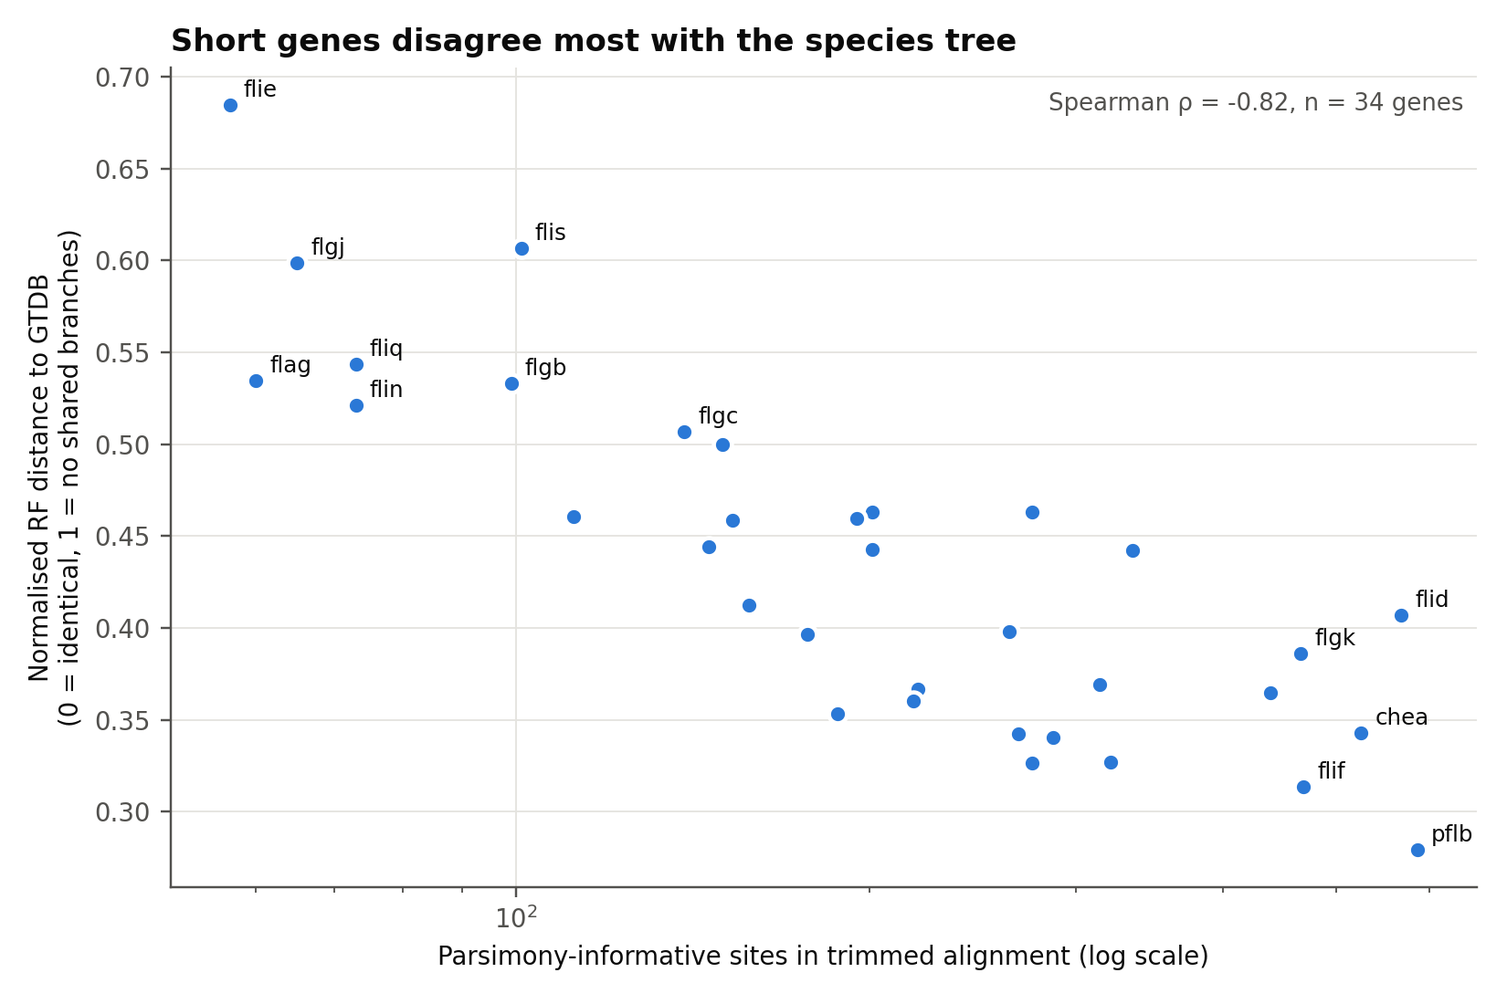
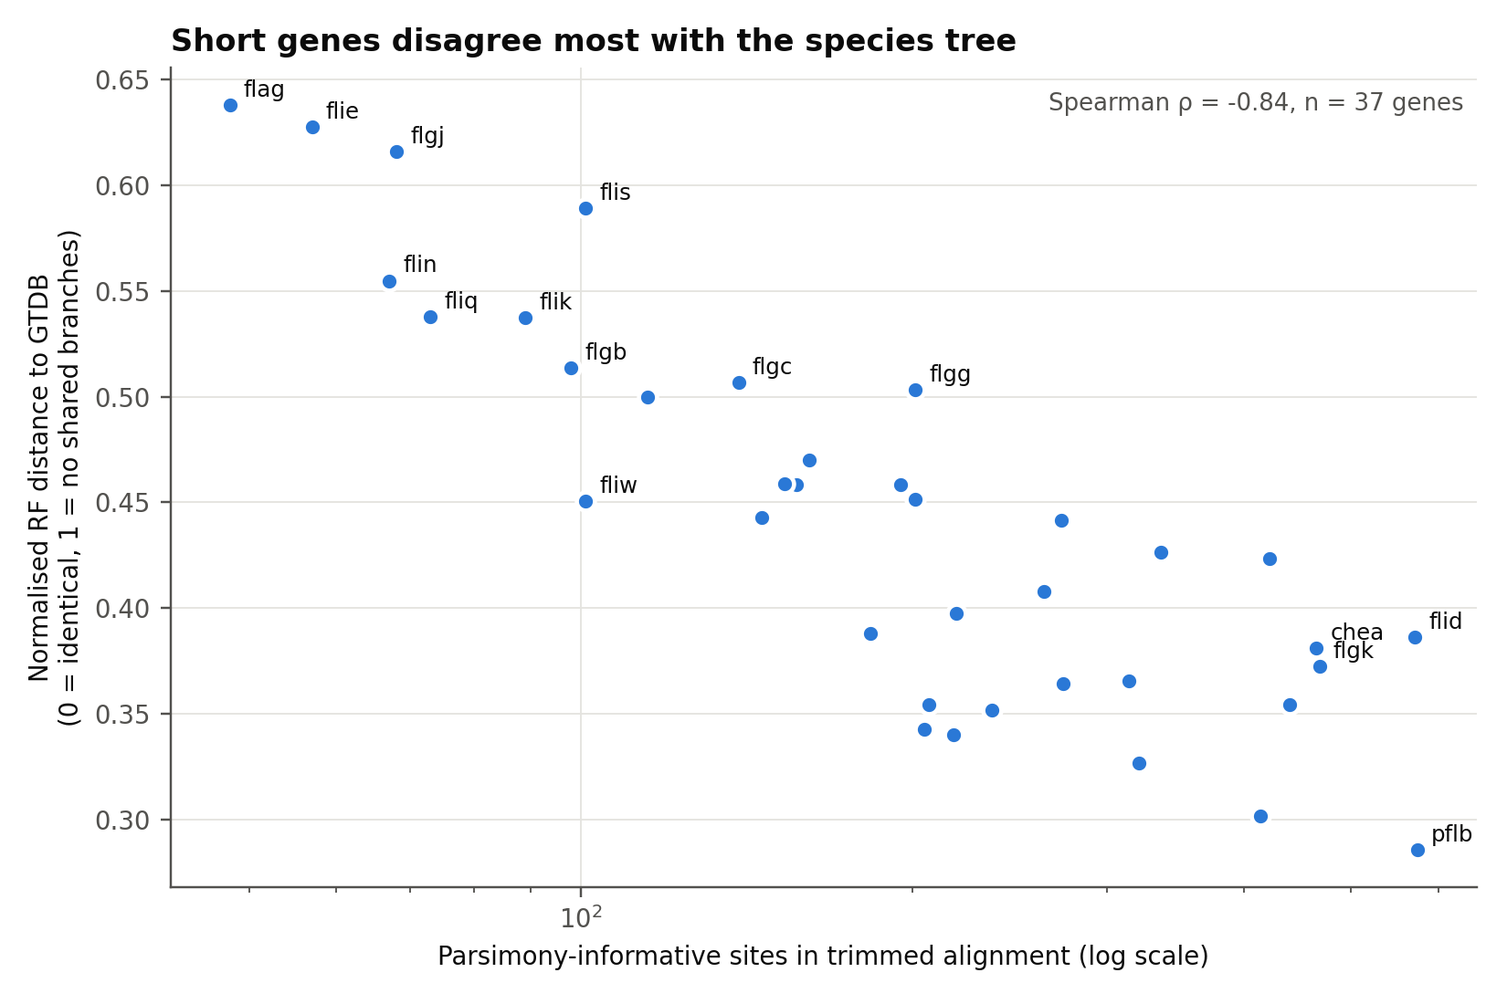
Run-2 results and AU tests: all 8 candidates reject GTDB on the concatenated alignment
RESULTS.md rewritten for run 2 (37 genes x 149 genomes) with the explicit
shortlist rule (4 primary, 4 exploratory) and AU results; figures
regenerated. summarise_au.py reports p < 1e-4 when the GTDB tree wins no
RELL replicate (IQ-TREE's AU value is an unstable extrapolation there).

Claude-Session: https://claude.ai/code/session_01NnNHdsAmpXXpidbD6nPzg2

diff --git a/scripts/11_flagellar_trees/summarise_au.py b/scripts/11_flagellar_trees/summarise_au.py
@@ -9,7 +9,8 @@ allowed) with tree 2 = best tree forced to keep the candidate's GTDB branch(es).
   p_AU_gtdb < 0.05  -> the alignment significantly REJECTS the GTDB arrangement
   p_AU_free < 0.05  -> the alignment significantly rejects its own unconstrained
                        tree, i.e. prefers GTDB (rare; means the free search was poor)
-Per-gene p-values are Benjamini-Hochberg corrected within each candidate;
+p_AU_gtdb is reported as "<1e-04" when the GTDB tree never wins a RELL
+replicate (see p_gtdb). Per-gene p-values are Benjamini-Hochberg corrected within each candidate;
 the concatenated-alignment p-values are Holm corrected across candidates.
 con_rep_spread = logL range across the 3 constrained-search replicates: a
 large spread means the constrained search is unstable, so treat that p-value
@@ -26,6 +27,18 @@ import os
 
 A = "gene_order/flagellar_trees/au"
 ALPHA = 0.05
+N_RELL = 10000  # -zb in au_one.sh
+
+
+def p_gtdb(t):
+    """p-value for the GTDB-constrained tree (tree 2). When it wins in none of
+    the RELL replicates (bp-RELL = 0) the AU p-value is an extrapolation of the
+    multiscale-bootstrap fit and is numerically unstable (identical tree pairs
+    gave 0.037 and 8e-7), so it is reported as < 1/N_RELL and 1/N_RELL is used
+    as a conservative value for the multiple-testing corrections."""
+    if t[2].get("bp-RELL", 1) == 0:
+        return 1 / N_RELL, f"<{1 / N_RELL:g}"
+    return t[2]["p-AU"], f"{t[2]['p-AU']:.3g}"
 
 
 def parse_user_trees(path):
@@ -82,7 +95,7 @@ def replicate_spread(cand, aln):
 
 def main():
     cands = open(f"{A}/candidates.txt").read().split()
-    rows, summary = [], []
+    rows, summary, results_concat = [], [], {}
     for cand in cands:
         group = [l.split("\t")[1] for l in open(f"{A}/{cand}/group.txt").read().splitlines()]
         genes = [l.split("\t")[0] for l in open(f"{A}/{cand}/genes.tsv").read().splitlines() if l]
@@ -93,24 +106,28 @@ def main():
             if t and 1 in t and 2 in t:
                 results[aln] = t
         gene_alns = [g for g in genes if g in results]
-        q = dict(zip(gene_alns, bh([results[g][2]["p-AU"] for g in gene_alns]))) if gene_alns else {}
+        q = dict(zip(gene_alns, bh([p_gtdb(results[g])[0] for g in gene_alns]))) if gene_alns else {}
 
         for aln, t in results.items():
             rows.append([cand, aln, t[1]["logL"], t[2]["logL"], round(t[1]["logL"] - t[2]["logL"], 3),
-                         t[2]["p-AU"], q.get(aln, ""), t[1]["p-AU"], replicate_spread(cand, aln)])
+                         p_gtdb(t)[1], t[2]["p-AU"], t[2].get("bp-RELL", ""), q.get(aln, ""), t[1]["p-AU"],
+                         replicate_spread(cand, aln)])
 
         c = results.get("concat")
-        n_rej = sum(results[g][2]["p-AU"] < ALPHA for g in gene_alns)
+        if c:
+            results_concat[cand] = c
+        n_rej = sum(p_gtdb(results[g])[0] < ALPHA for g in gene_alns)
         n_rej_bh = sum(q[g] < ALPHA for g in gene_alns)
         n_pref_gtdb = sum(results[g][1]["p-AU"] < ALPHA for g in gene_alns)
         summary.append([cand, "; ".join(group),
-                        c[2]["p-AU"] if c else "NA", None,
+                        p_gtdb(c)[1] if c else "NA", None,
                         round(c[1]["logL"] - c[2]["logL"], 3) if c else "NA",
                         f"{len(gene_alns)}/{len(genes)}", n_rej, n_rej_bh, n_pref_gtdb,
                         replicate_spread(cand, "concat")])
 
-    have = [r for r in summary if r[2] != "NA"]
-    for r, adj in zip(have, holm([r[2] for r in have])):
+    pval = {r[0]: p_gtdb(results_concat[r[0]])[0] for r in summary if r[0] in results_concat}
+    have = [r for r in summary if r[0] in pval]
+    for r, adj in zip(have, holm([pval[r[0]] for r in have])):
         r[3] = round(adj, 5)
     for r in summary:
         if r[3] is None:
@@ -118,7 +135,7 @@ def main():
 
     with open(f"{A}/au_results.tsv", "w") as f:
         f.write("candidate\talignment\tlogL_free\tlogL_gtdb_constrained\tdelta_logL\t"
-                "p_AU_gtdb\tq_BH_gtdb\tp_AU_free\tcon_rep_spread\n")
+                "p_gtdb\tp_AU_raw\tbp_RELL_gtdb\tq_BH_gtdb\tp_AU_free\tcon_rep_spread\n")
         for r in rows:
             f.write("\t".join(str(x) for x in r) + "\n")
     with open(f"{A}/au_summary.tsv", "w") as f:
@@ -130,7 +147,7 @@ def main():
     print(f"{'candidate':30s} {'concat p-AU':>11s} {'Holm':>8s} {'ΔlogL':>8s} {'genes':>6s} "
           f"{'reject':>6s} {'BH':>4s} {'rep spread':>10s}")
     for r in summary:
-        p = f"{r[2]:.4f}" if r[2] != "NA" else "NA"
+        p = r[2]
         h = f"{r[3]:.4f}" if r[3] != "NA" else "NA"
         print(f"{r[0]:30s} {p:>11s} {h:>8s} {str(r[4]):>8s} {r[5]:>6s} {r[6]:>6d} {r[7]:>4d} {str(r[9]):>10s}")
     print(f"\nHolm-corrected concat p-AU < {ALPHA}: the flagellar alignment significantly rejects "

diff --git a/gene_order/flagellar_trees/RESULTS.md b/gene_order/flagellar_trees/RESULTS.md
@@ -1,147 +1,182 @@
-# Flagellar trees vs GTDB: results (Katana run 1, 26 Sep 2026)
+# Flagellar trees vs GTDB: results (Katana run 2, 27 Sep 2026)
 
-> **Superseded — rerun pending.** Run 1 used 34 genes / 153 genomes. The gene
-> inputs were then corrected (27 Sep): when a genome has several copies named
-> as the same gene, the copy in the gene's main OrthoFinder orthogroup is used
-> (recovering 192 calls that were previously excluded); a genome's only copy
-> is dropped if it belongs to a paralog orthogroup that elsewhere sits
-> alongside the main one (47 calls, in flgE, fliK, fliW), and kept if its
-> orthogroup is lineage-specific (the 8 Hippea/Desulfurella/Nitrosophilus/
-> Nitratiruptor FlgG: a divergent but genuine FlgG, 47–62 % identical to FlgG
-> elsewhere). Result: 37 genes (+flgE, +fliK, +fliW) × 149 genomes. Numbers
-> below are from run 1 and will be replaced after the rerun.
+37 flagellar/chemotaxis genes × 149 Campylobacterota genomes. Per-gene IQ-TREE
+trees (MAFFT L-INS-i, trimAl -automated1, ModelFinder, 1000 UFBoot), a
+partitioned concatenated tree (9,927 aa sites, 10.8 % missing data), gene and
+site concordance factors (gCF, sCFL) on both the flagellar and GTDB trees, and
+targeted AU tests. Figures in `figures/` (`plot_results.py`).
 
-34 flagellar/chemotaxis genes × 153 Campylobacterota genomes (selection rule in
-`gene_selection.json`). Per-gene IQ-TREE trees (ModelFinder + 1000 UFBoot), a
-partitioned concatenated tree (9,427 aa sites, 10.8 % missing data), gene and site concordance
-factors on both the flagellar and GTDB trees. Figures in `figures/`, regenerate
-with `python scripts/11_flagellar_trees/plot_results.py`.
+Run 1 (34 genes / 153 genomes, 26 Sep) is superseded; its headline numbers are
+within 1–2 % of run 2's (table in §1).
+
+## 0. Gene set and verification
+
+Selection (`prepare_gene_sets.py`, `gene_selection.json`): gene in ≥ 100 of 164
+genomes, ≤ 10 % of those with ambiguous extra copies; genomes kept if they carry
+≥ 60 % of the selected genes (≥ 22 of 37).
+
+Copies are resolved with OrthoFinder orthogroups: of several same-named copies,
+the one in the gene's main orthogroup is used (192 calls recovered); a genome's
+only copy is dropped if it sits in a paralog orthogroup that elsewhere occurs
+alongside the main one (47 calls, in flgE, fliK, fliW) and kept if its
+orthogroup is lineage-specific (8 Hippea/Desulfurella/Nitrosophilus/
+Nitratiruptor FlgG: own orthogroup, but 47–62 % identical to FlgG across the
+phylum vs ≤ 32 % to the other rod proteins in the same genome).
+
+All 4,964 tree-input proteins were checked against five reference proteomes
+spanning the phylum (`verify/`, DIAMOND very-sensitive, ≥ 50 % query cover):
+94.3 % agree by majority; the 6 flagged were reviewed by sequence and are
+correct calls (`verify/REVIEW.md`). flgJ/flgR, which the references don't name,
+are covered by the original OrthoFinder + eggNOG confirmation.
+
+Not included (22 genes, all < 100 genomes; flaA/flaB/maf_2356 also ambiguous
+multi-copy). Some low counts are detection gaps, not absence: flgF and flhG
+calls were dropped by the confirmed-only eggNOG rule, cheY/fliO/fliT are
+usually unnamed in NCBI, and **flagellin detection is incomplete** — 58 genomes
+with an NCBI "flagellin" protein have no flaA/flaB/flaC call (their flagellins,
+mostly Arcobacteraceae and Sulfurimonas, fall in orthogroups other than the
+C. jejuni-seeded OG0000010). Presence/absence claims for these genes should
+read "not detected".
 
 ## 1. Flagellar genes carry a strong vertical (species-tree) signal
 
-| Measure | Value |
-|---|---|
-| GTDB branches recovered by the flagellar tree | **112 / 150 (74.7 %)** |
-| …of which flagellar UFBoot ≥ 95 | 105 |
-| Random-shuffle null (1000 tip relabellings) | mean 0.22 shared, max 2, **p = 0.001** |
-| Robinson–Foulds | 76 (normalised 0.25) |
-| Mantel, patristic distances | **r = 0.59, p = 0.0001** (9999 perms, 11,628 pairs) |
-| gCF on flagellar tree | mean 63 %, no branch below 10 % |
-| gCF on GTDB tree | mean 56 %, 83/150 branches ≥ 50 %, 18 below 10 %, 7 at 0 % |
+| Measure | Run 2 | (run 1) |
+|---|---|---|
+| GTDB branches recovered by the flagellar tree | **108 / 146 (74.0 %)** | 112/150 (74.7 %) |
+| …of which flagellar UFBoot ≥ 95 | 101 | 105 |
+| Random-shuffle null (1000 tip relabellings) | mean 0.19, max 2, **p = 0.001** | 0.22 |
+| Robinson–Foulds | 76 (normalised 0.26) | 0.25 |
+| Mantel, patristic distances | **r = 0.57, p = 0.0001** | 0.59 |
+| gCF on flagellar tree | mean 62 %, none below 10 % | 63 % |
+| gCF on GTDB tree | mean 55 %, 81/146 ≥ 50 %, 15 below 10 %, 6 at 0 % | 56 % |
 
 The flagellar system was mostly inherited vertically, as one unit: the genes
-agree with each other (gCF 63 %) and three quarters of species-tree branches
-are recovered — against ~0 expected by chance. Compare the synteny-UPGMA tree
-from Thesis B, which recovered 23.8 %.
+agree with each other and recover three quarters of species-tree branches,
+against ~0 expected by chance (the synteny-UPGMA tree from Thesis B recovered
+23.8 %). The shuffle null is a weak baseline (random trees share almost
+nothing), so RF and concordance carry the argument; the Mantel test is
+supporting only (Mantel tests on tree-derived distances are criticised: Harmon
+& Glor 2010; Guillot & Rousset 2013).
 
 ## 2. Most per-gene disagreement is weak signal, not transfer
 
-Normalised RF to GTDB falls with alignment length: **Spearman ρ = −0.82**
-across the 34 genes (`fig2_signal_vs_length.png`). The most discordant genes
-are the shortest after trimming — fliE (67 sites), flgJ (74), flaG (63),
-fliQ (86), fliN (87), fliS (110). The long genes (pflB, cheA, fliF, flhA,
-flgK) are the closest to GTDB. A gene tree disagreeing with GTDB on its own is
-therefore not evidence of HGT here; it is expected for 60–110-site genes.
+Normalised RF to GTDB falls with trimmed alignment length: **Spearman
+ρ = −0.84** across 37 genes (`fig2_signal_vs_length.png`). Most discordant are
+the shortest — flaG (51 sites, 0.64), fliE (67), flgJ (78), fliS (110), fliN
+(72), fliQ (86); least discordant are long — pflB (589 sites, 0.29), fliF, flgR,
+flgS, fliR, flhB. A single gene disagreeing with GTDB is expected at this
+length and is not evidence of HGT.
 
-## 3. The ten GTDB branches no flagellar gene recovers are mostly unresolved, not contradicted
+## 3. GTDB branches no flagellar gene recovers are unresolved, not contradicted
 
-`fig3_concordance_gtdb.png`. For every branch with gCF ≤ 5 %:
+`fig3_concordance_gtdb.png`. For the 9 branches with gCF ≤ 5 %, the gene-tree
+disagreement is mostly **gDFP** (44–100 %: gene trees messy around the clade)
+rather than one consistent alternative (largest one-sided gDF 33 %), and the
+**sCF is 39–86 %, above both alternatives for all 9** — at site level the
+alignment still leans towards GTDB. They sit on the deep backbone
+(Arcobacteraceae / Nautiliales / Desulfurellia), the Nitratiruptoraceae, and
+internal Sulfurimonas branches.
 
-- the gene-tree disagreement is almost all **gDFP** (77–100 %) — gene trees
-  that are simply messy around a large clade — rather than one consistent
-  alternative (gDF1/gDF2 mostly < 20 %). The exception is the *Poseidonibacter*
-  branch, where 75 % of gene trees agree on one alternative (shortlist #1, §4);
-- the **sCF is 37–76 %, above the ⅓ no-signal line for all ten**, and above
-  both alternatives (sDF1/sDF2) for all ten (narrowly for the 12-genome
-  Sulfurimonas branch: 37 % vs 36 %). At site level the flagellar
-  alignment still leans towards the GTDB branch.
-
-Where they sit: the deep backbone (the 56-, 41- and 29-genome clades around
-Arcobacteraceae/Sulfurimonas/Nautiliales), the attachment of the GTDB root
-(Desulfurellia: *Hippea*, *Desulfurella*), and internal Sulfurimonas branches.
-
-**The deep thermophile grouping looks like an artefact.** In the flagellar
-trees *Hippea*/*Desulfurella* (the GTDB root) attach next to *Nitrosophilus*/
-*Nitratiruptor* instead of Nautiliales, and *Hydrogenimonas* separates from
-*Nitrosophilus* (`fig1_tanglegram.png`). These are all deep-sea-vent
-thermophiles, and they are exactly the genomes failing IQ-TREE's amino-acid
-composition test most often (*Nitrosophilus* ×3 and *Nitratiruptor* fail in
-7 genes each; *Hippea*, *Lebetimonas*, *Desulfurella* 4–5; 167 failures of
-4703 sequence-gene tests overall). Thermophile proteome composition bias plus a
-long outgroup branch is a textbook source of spurious grouping. Treat as
-artefact unless it survives recoding / site-heterogeneous models (below).
+The deep thermophile grouping (*Hippea*/*Desulfurella*, the GTDB root, attaching
+next to *Nitrosophilus*/*Nitratiruptor* rather than Nautiliales; 6 gene trees)
+looks like a composition/long-branch artefact: these are exactly the genomes
+failing IQ-TREE's amino-acid composition test most often (*Nitrosophilus* ×3,
+*Nitratiruptor* 7 genes each; *Hippea*, *Desulfurella* 6; *Lebetimonas* 5; 171
+of 4,964 sequence-gene tests overall). To test: site-heterogeneous model
+(LG+C20+F+G / PMSF) or Dayhoff-6 recoding.
 
 ## 4. HGT candidates
 
-The screen (`hgt_candidates.tsv`) found 458 strongly supported (UFBoot ≥ 95)
-conflicts in 178 distinct groups; most are single-gene, shallow, or in short
-genes. Two kinds are worth following up.
+### Screen
+`screen_hgt_candidates.py`: 501 strongly supported (UFBoot ≥ 95) conflicts
+with GTDB in 178 distinct groups (`hgt_candidates.tsv`); most single-gene,
+shallow, or in short genes.
 
-### A. Consistent alternative histories — shortlist
+### Shortlist
+Explicit rule, applied to run 2 (it formalises the criteria used informally on
+run 1, so it is a screening rule, not an independent test):
 
-The same grouping in many gene trees *and* the concatenated tree, with the gene
-trees favouring **one** specific alternative (gDF strongly one-sided; noise
-would split roughly evenly). `fig4_recurrent_conflicts.png`.
+1. in ≥ 10 gene trees **and** the concatenated tree;
+2. one-sided: at the contradicted GTDB branch, ≥ 50 % of gene trees favour this
+   alternative and ≥ 3× as many as the other alternative;
+3. the GTDB branch is not unusually short (≥ 25th percentile, 0.0086 subst./site).
 
-| # | Group (flagellar genes put together) | Gene trees | gDF of the favoured alternative | GTDB branch length | Read |
+**Primary** (pass all three): *C. mucosalis* + *C. suis*; *H. saguini* +
+*H. didelphidarum*; *P. lekithochrous* + *A. roscoffensis*;
+*C. pinnipediorum* / *gastrosuis* / *majalis*.
+**Exploratory** (fail one criterion, tested for a stated reason):
+*Hydrogenimonas* (GTDB branch 0.0079, just short; most recurrent, 20 genes),
+*Sulfurimonas* subgroup (not one-sided; deepest within-genus conflict),
+*Nitrosophilus* (7 genes; tests the thermophile question), *S. tamanense*
+(5 genes; deep and one-sided, GTDB splits the genus).
+The rule selects nothing that was not already on the list.
+
+### AU tests
+`prepare_au_tests.py` → `katana/03_au_tests.pbs` → `summarise_au.py`. For each
+candidate, the constraint forces only the GTDB branch(es) the grouping
+contradicts; best of 3 constrained searches (different seeds) vs the
+unconstrained tree; AU with 10,000 RELL replicates, on the concatenated
+alignment and every informative gene. Constrained and free concatenated trees
+differ only at the forced branch(es) (1 split; 2 for the Campylobacter pair;
+4 for Sulfurimonas), and the three constrained replicates agree to < 0.01 logL.
+
+| Candidate | | Concat p (GTDB) | Holm (8) | ΔlogL | Genes rejecting GTDB, p < 0.05 / BH |
 |---|---|---|---|---|---|
-| 1 | *Poseidonibacter lekithochrous* + *Arcobacter roscoffensis* | 13 + concat | 75 % (other alt. 0 %) | 0.0136 (median) | **Top candidate** — GTDB branch is not short, genes very one-sided |
-| 2 | *Hydrogenimonas urashimensis* + *H. cancrithermarum* | 19 + concat | 73 % (3 %) | 0.0079 | Strong, but within-genus |
-| 3 | *Helicobacter saguini* + *H. didelphidarum* | 15 + concat | 61 % (3 %) | 0.0086 | Strong |
-| 4 | *Campylobacter pinnipediorum* + *C. gastrosuis* + *C. majalis* | 7 + concat | 55 % (0 %) | 0.0187 (long) | Worth testing — long GTDB branch |
-| 5 | *Nitrosophilus* spp. (vs *Nitratiruptor*) | 7 + concat | 64 % (9 %) | 0.0131 | Thermophile caveat (§3) |
-| 6 | *Sulfurimonas denitrificans* / *crateris* / *baltica* / *marisnigri* | 9 + concat | gCF 0 on 4 GTDB branches | 0.005 | Deepest recurrent within-genus conflict (GTDB span 14) |
-| — | *Sulfurospirillum diekertiae* + *S. oryzae* | 13 + concat | 58 % | **0.0031** (short) | GTDB itself uncertain here — low priority |
+| *P. lekithochrous* + *A. roscoffensis* | primary | **< 10⁻⁴** | 0.0008 | 262 | 6 / 0 of 25 |
+| *H. saguini* + *H. didelphidarum* | primary | **< 10⁻⁴** | 0.0008 | 181 | 6 / 0 of 36 |
+| *C. mucosalis* + *C. suis* | primary | **< 10⁻⁴** | 0.0008 | 700 | 16 / 11 of 37 |
+| *C. pinnipediorum* / *gastrosuis* / *majalis* | primary | **< 10⁻⁴** | 0.0008 | 700 | 12 / 9 of 36 |
+| *Hydrogenimonas* | exploratory | **< 10⁻⁴** | 0.0008 | 286 | 7 / 3 of 35 |
+| *Sulfurimonas* subgroup | exploratory | **< 10⁻⁴** | 0.0008 | 908 | 24 / 23 of 36 |
+| *S. tamanense* | exploratory | **< 10⁻⁴** | 0.0008 | 148 | 3 / 0 of 35 |
+| *Nitrosophilus* | exploratory | 0.0044 | 0.0044 | 41 | 2 / 0 of 23 |
 
-These are shallow (close relatives), so the realistic interpretations are:
-the flagellar operon moved as a unit between close relatives (HGT or
-homologous recombination), or GTDB's placement of a short branch is wrong.
-Distinguishing the two needs the AU test and a check of GTDB's own marker
-genes at that node.
+"< 10⁻⁴": the GTDB-constrained tree won none of the 10,000 RELL replicates
+(KH and SH p also 0). IQ-TREE's AU value is then an unstable extrapolation
+(identical tree pairs gave 0.037 and 8 × 10⁻⁷), so 10⁻⁴ is reported and used
+for Holm. No gene significantly preferred GTDB over its free tree.
 
-### B. Deeper single-/few-gene placements
+**Reading.** At all eight spots the flagellar genes, taken together,
+significantly reject the GTDB arrangement. Individually few genes do (except
+*Sulfurimonas*: 23/36 after BH, and the *Campylobacter* pair: 9–11): the signal
+is spread across many genes, i.e. the flagellar gene set shares one history
+there that differs from GTDB — consistent with the flagellar system moving
+(or recombining) as a unit between close relatives, or with GTDB being wrong at
+those nodes. The two *Campylobacter* candidates are one conflict (their
+constrained trees are identical).
 
-- ***Sulfurospirillum tamanense***: GTDB places it as sister to *Campylobacter*,
-  apart from the other eight *Sulfurospirillum* (so GTDB's *Sulfurospirillum*
-  is not monophyletic). The flagellar genes put it back with its genus, which
-  is sister to *Campylobacter* (fliA, fliL, fliR, flgS at UFBoot 95–100, and the
-  concatenated tree). Here the flagellar genes follow the named genus and GTDB
-  is the odd one out, so it may be the species tree rather than the flagellar
-  genes that needs explaining. Moderate priority.
-- **Enterohepatic *Helicobacter*** (11 spp.) move in flhB (UFBoot 98, span 31).
-- ***Arcobacter nitrofigilis*** pairs with *Halarcobacter* in fliQ/fliI/fliN —
-  but fliQ and fliN are two of the shortest genes. Low priority.
+**Caveats.** (1) The candidates were chosen from these same trees, so the tests
+confirm the conflicts are real features of the flagellar data (not search
+noise), but the p-values are post-selection and are not independent
+confirmation. (2) Rejecting GTDB is not by itself HGT (see next steps).
 
 ## 5. Next steps
 
-1. **Targeted AU tests** (set up: `prepare_au_tests.py`, `katana/submit_au.sh`)
-   on shortlist 1–6, *C. mucosalis* + *C. suis* and *S. tamanense*: for each, the flagellar
-   alignment (concatenated and per-gene) with the group constrained to its GTDB
-   position vs unconstrained (`iqtree2 -g constraint.nwk`, then
-   `-z trees -n 0 -zb 10000 -au`).
-2. **Artefact check for the thermophiles**: rerun the concatenated tree with a
-   site-heterogeneous model (`LG+C20+F+G`, or PMSF) and/or Dayhoff-6 recoding;
-   see whether *Hippea*/*Desulfurella* move back next to Nautiliales.
-3. **Is GTDB wrong there?** For the shallow candidates, check whether GTDB's
-   own bac120 marker gene trees support the GTDB branch or the flagellar one.
-   If the markers split too, it's a species-tree uncertainty, not HGT.
-4. **Synteny link**: check flagellar gene order and nearby mobile elements for
-   the shortlisted genomes (existing synteny outputs).
-5. Donor search (DIAMOND vs RefSeq) only if a candidate survives 1–3.
-6. **Planned sensitivity analysis — motility-essential genes below the
-   100-genome cut-off:** motA (85 genomes) and motB (88) as ordinary genes at a
-   lower threshold; flaA/flaB (tandem flagellin duplicates, 38 % of genomes
-   with 2+ copies in one orthogroup) need a copy rule first, e.g. one copy per
-   genome when the copies are near-identical. Rerun trees + concordance and
-   check whether the main results change.
+1. **Is GTDB wrong there?** For each candidate, check whether GTDB's own
+   bac120 marker genes (or a whole-genome tree) support the GTDB branch or the
+   flagellar one. Markers agreeing with the flagellar genes → species-tree
+   uncertainty, not HGT. Markers agreeing with GTDB → the flagellar genes have a
+   genuinely different history → HGT/recombination candidate.
+2. **Synteny link**: flagellar gene order and nearby mobile elements for the
+   candidate genomes (existing synteny outputs).
+3. **Thermophile artefact check**: site-heterogeneous model / recoding (§3).
+4. Donor search (DIAMOND vs RefSeq) only for candidates surviving 1.
+5. **Planned sensitivity analysis — motility-essential genes below the
+   100-genome cut-off:** motA (85 genomes) and motB (88) at a lower threshold;
+   flaA/flaB after re-detecting flagellin properly (§0) and a copy rule for the
+   tandem duplicates. Rerun trees + concordance and check the main results.
 
 ## Caveats
 
-- UFBoot ≥ 95 was the "strong" threshold; UFBoot is known to be slightly
-  optimistic under model misspecification.
-- Genomes with a multi-copy call for a gene are missing from that gene tree,
-  which lowers gCF for clades containing them.
-- 11 genomes were excluded (< 20 of 34 genes), including *C. hominis* and
-  *C. gracilis* (no selected genes) — results say nothing about those.
-- Per-gene trees did not save bootstrap trees (`--wbtl`), so reconciliation
-  with ALE would need the gene-tree step rerun.
+- UFBoot ≥ 95 as "strong" (UFBoot is slightly optimistic under model
+  misspecification).
+- trimAl -automated1 trims some genes heavily (e.g. flaG → 51 sites); a less
+  aggressive trimmer (BMGE/ClipKIT) would be a useful sensitivity check.
+- 15 genomes excluded (< 22 of 37 genes), including *C. hominis* and
+  *C. gracilis* (no selected genes) and 4 Arcobacter at 20–21 genes.
+- Per-gene constrained searches: best of 3 used; 72 of 271 tests had
+  replicates > 2 logL apart, and in 8 gene tests the constrained tree beat the
+  original free gene tree by 0.6–7 logL (gene-tree searches are not perfectly
+  optimal). Concatenated tests were stable.
+- Per-gene trees did not save UFBoot trees (`--wbtl`), so reconciliation with
+  ALE would need the gene-tree step rerun.
